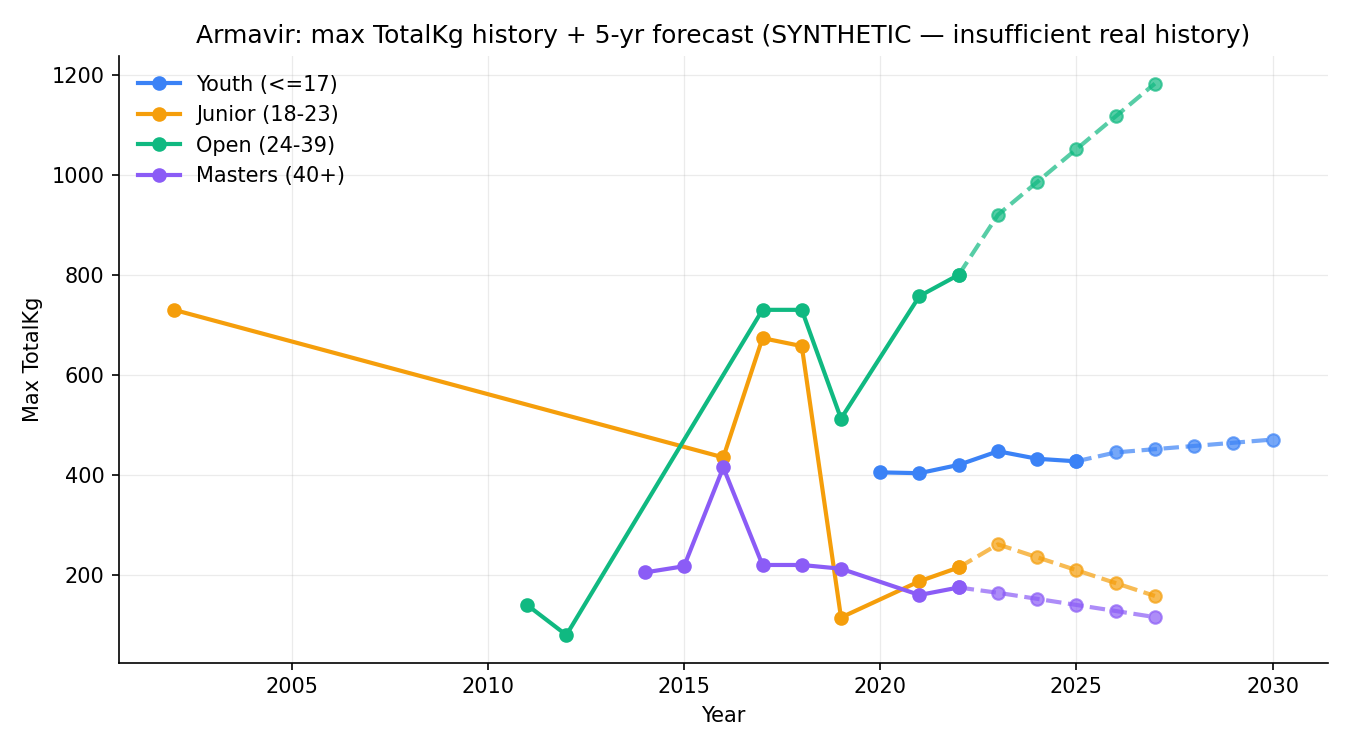
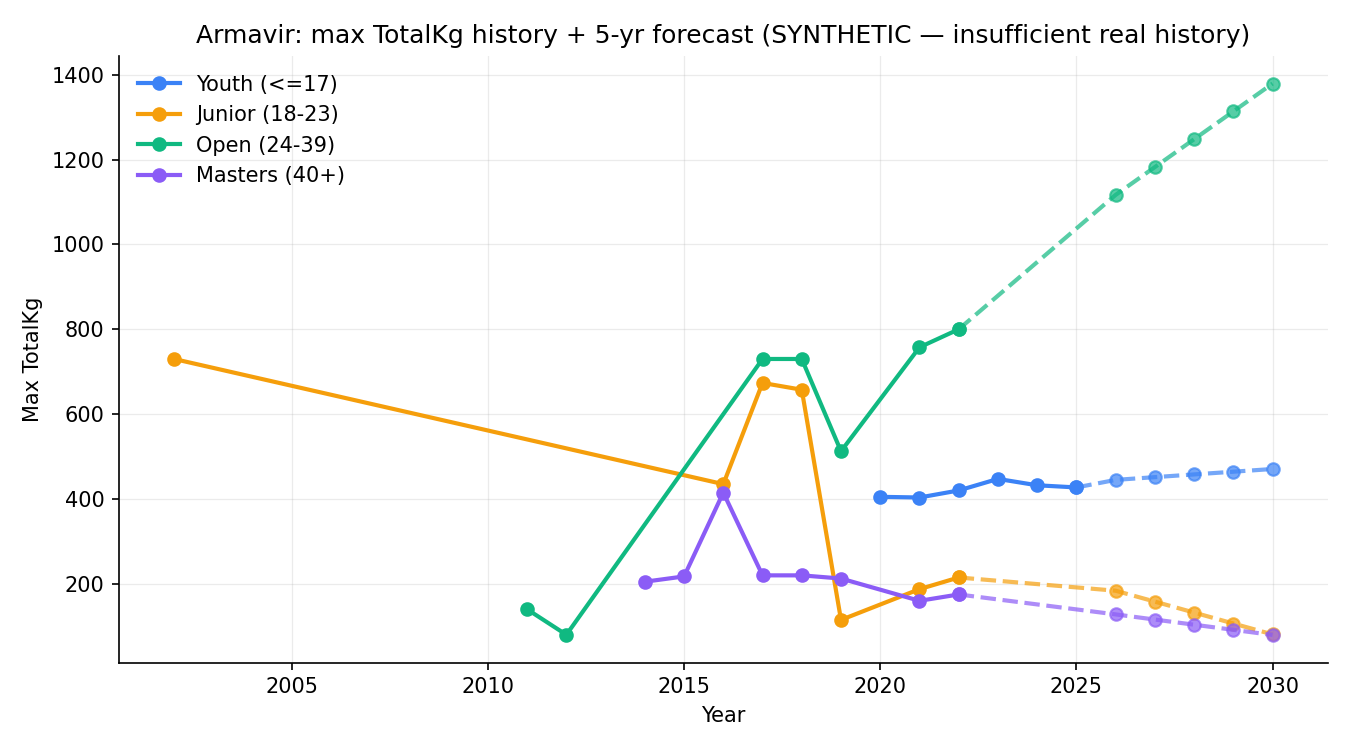
Anchor 5-year forecast to today and fix dashboard rendering issues
Forecasts were anchored to each group's last historical year, so groups
whose real data stopped in 2018-2023 showed forecast windows already in
the past relative to today. Now every group forecasts 2026-2030.

Also wraps the standalone dashboard in a proper doctype/html/head/body
(it was being served as a bare fragment, risking quirks-mode rendering),
makes table text color explicit instead of relying on inheritance, and
resolves chart series colors via getComputedStyle instead of passing raw
var(...) strings into SVG presentation attributes.

diff --git a/dashboard/dashboard_template.html b/dashboard/dashboard_template.html
@@ -1,3 +1,9 @@
+<!DOCTYPE html>
+<html lang="en">
+<head>
+<meta charset="utf-8">
+<meta name="viewport" content="width=device-width, initial-scale=1">
+<meta name="color-scheme" content="light dark">
 <title>Armenia Powerlifting: Regional Workload &amp; Forecast</title>
 <style>
   .viz-root {
@@ -190,6 +196,7 @@
     border-bottom: 1px solid var(--grid);
     font-variant-numeric: tabular-nums;
     white-space: nowrap;
+    color: var(--text-primary);
   }
   table.data-table th { color: var(--text-muted); font-weight: 500; }
   .table-scroll { overflow-x: auto; }
@@ -216,6 +223,8 @@
 
   footer { font-size: 12px; color: var(--text-muted); text-align: center; margin-top: 32px; }
 </style>
+</head>
+<body>
 
 <div class="viz-root">
   <div class="wrap">
@@ -282,6 +291,15 @@ function showTooltip(x, y, html) {
 }
 function hideTooltip() { tooltip.style.opacity = 0; }
 
+const FALLBACK_COLORS = {
+  '--series-blue': '#2a78d6', '--series-aqua': '#1baf7a', '--series-yellow': '#eda100',
+  '--series-green': '#008300', '--series-muted': '#898781',
+};
+function resolveCssVar(name) {
+  const val = getComputedStyle(document.querySelector('.viz-root')).getPropertyValue(name).trim();
+  return val || FALLBACK_COLORS[name] || '#000000';
+}
+
 // ---------- KPI row ----------
 function renderKPIs() {
   const wl = DATA.workload;
@@ -316,7 +334,7 @@ function renderBarChart() {
   const maxVal = Math.max(...entries.map(e => e[1]));
   const scaleW = width - leftPad - rightPad;
 
-  const barColor = getComputedStyle(document.querySelector('.viz-root')).getPropertyValue('--series-blue').trim() || '#2a78d6';
+  const barColor = resolveCssVar('--series-blue');
 
   let svg = `<svg viewBox="0 0 ${width} ${height}" role="img" aria-label="Competition entries by region">`;
   entries.forEach(([region, val], i) => {
@@ -392,8 +410,9 @@ function renderLineChart() {
   AGE_GROUPS.forEach(ag => {
     const grp = rows.filter(r => r.AgeGroup === ag).sort((a, b) => a.Year - b.Year);
     if (grp.length === 0) return;
-    const color = 'var(--' + (ag === 'Youth (<=17)' ? 'series-blue' : ag === 'Junior (18-23)' ? 'series-aqua' :
-                  ag === 'Open (24-39)' ? 'series-yellow' : ag === 'Masters (40+)' ? 'series-green' : 'series-muted') + ')';
+    const varName = ag === 'Youth (<=17)' ? '--series-blue' : ag === 'Junior (18-23)' ? '--series-aqua' :
+                  ag === 'Open (24-39)' ? '--series-yellow' : ag === 'Masters (40+)' ? '--series-green' : '--series-muted';
+    const color = resolveCssVar(varName);
     const isSynthetic = grp.some(r => r.IsSyntheticForecast);
     legendGroups.push({ ag, color, isSynthetic });
 
@@ -480,3 +499,6 @@ renderLineChart();
 renderWorkloadTable();
 renderForecastTable();
 </script>
+
+</body>
+</html>